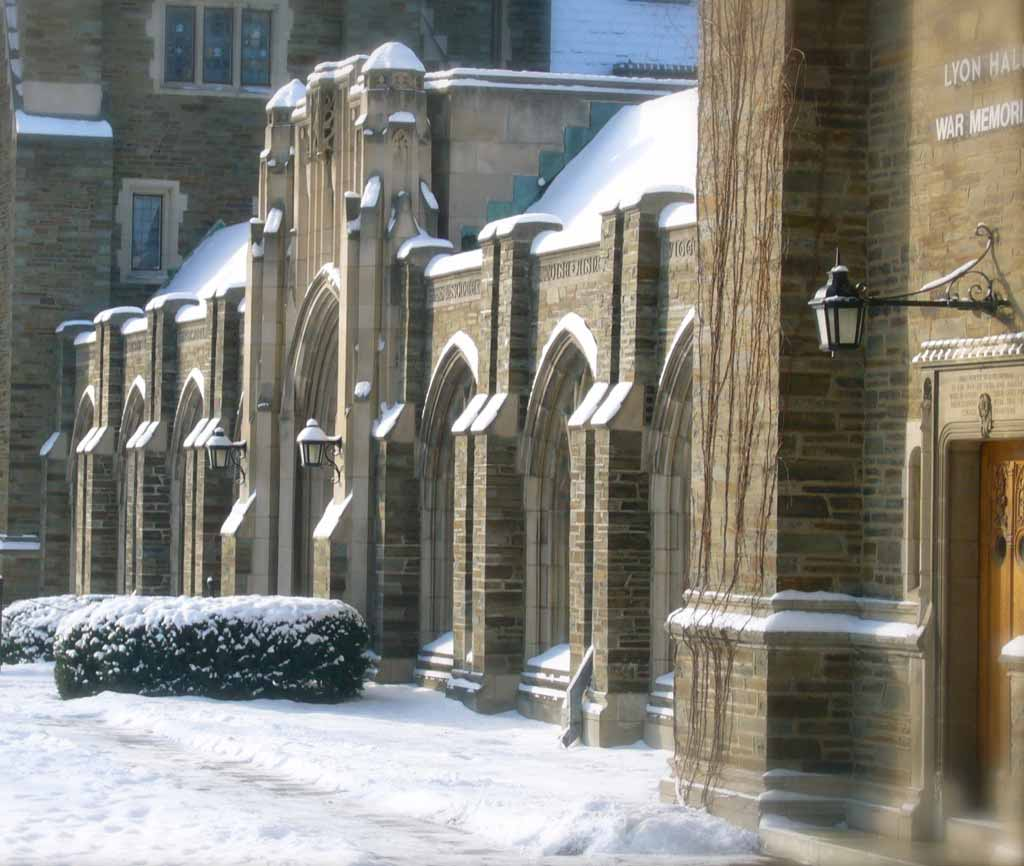
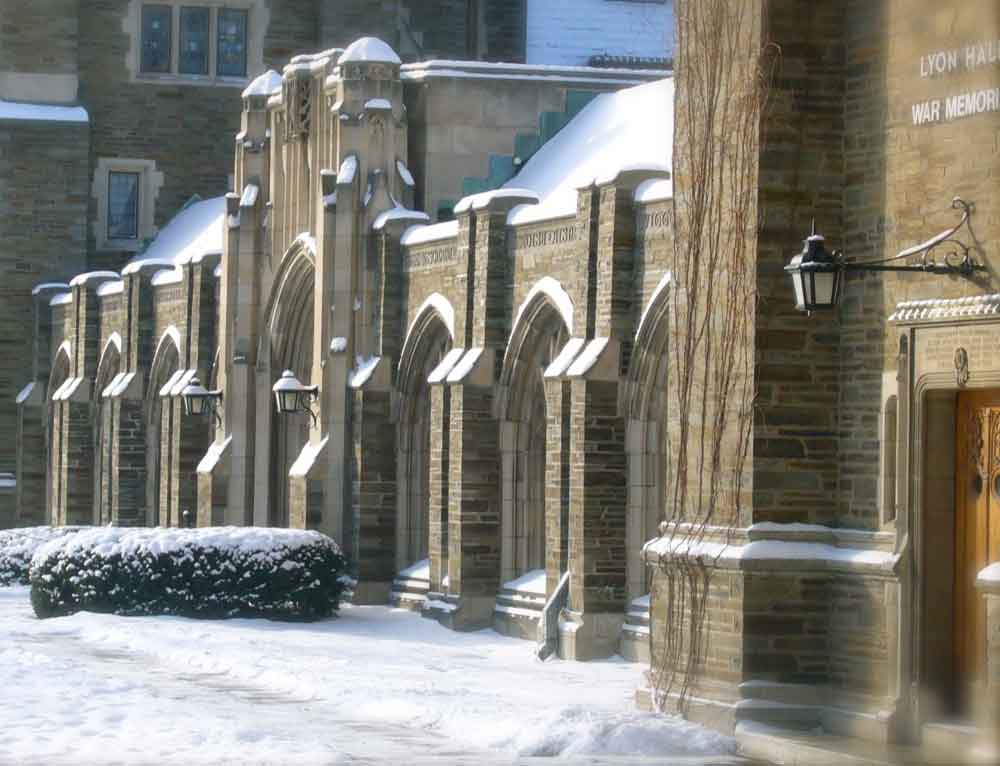
Style redesign

diff --git a/_layouts/default.html b/_layouts/default.html
@@ -3,29 +3,30 @@
  
 <html xmlns="http://www.w3.org/1999/xhtml" xml:lang="en" lang="en"> 
 <head> 
-	<meta http-equiv="content-type" content="text/html;charset=UTF-8" /> 
-	<title>Harrison Wong</title> 
-	<link type="text/css" href="css/dark-hive/jquery-ui-1.8.7.custom.css" rel="stylesheet" />
-	<link href="css/style.css" media="screen" rel="stylesheet" type="text/css" />
-	<script type="text/javascript" src="js/jquery-1.4.4.min.js"></script>
-	<script type="text/javascript" src="js/jquery-ui-1.8.7.custom.min.js"></script>
-	<script type="text/javascript" src="js/site.js"></script>
+  <meta http-equiv="content-type" content="text/html;charset=UTF-8" /> 
+  <title>Harrison Wong</title> 
+  <link type="text/css" href="css/dark-hive/jquery-ui-1.8.7.custom.css" rel="stylesheet" />
+  <link href="css/style.css" media="screen" rel="stylesheet" type="text/css" />
+  <script type="text/javascript" src="js/jquery-1.4.4.min.js"></script>
+  <script type="text/javascript" src="js/jquery-ui-1.8.7.custom.min.js"></script>
+  <script type="text/javascript" src="js/site.js"></script>
 </head> 
 <body>
 
 <div id="container">
-	<div id="header"><h1 class="ui-widget ui-corner-all"><div class="logo"></div>Harrison<i>Wong</i></h1></div>
-	<div id="menu">
-	<div class="ui-overlay"></div>
-		<div style="" class="ui-widget ui-widget-content ui-corner-all">
-			<ul>
-				<li><a href="index.html">Home</a></li>
-				<li><a href="about.html">About Me</a></li>
-				<li><a href="projects.html">Projects</a></li>
-			</ul>
-		</div>
-	</div>
-	<div id="content" class="ui-corner-all">
+  <div id="header"><img src="name.png" alt="name" /></div>
+  <div id="menu">
+  <div class="ui-overlay"></div>
+    <div style="" class="ui-widget ui-widget-content ui-corner-all">
+      <ul>
+        <li><a href="index.html">Home</a></li>
+        <li><a href="about.html">About Me</a></li>
+        <li><a href="test.html">Test</a></li>
+        <li><a href="projects.html">Projects</a></li>
+      </ul>
+    </div>
+  </div>
+  <div id="content">
 		{{ content }}
 	</div>
 	<div id="footer">{{ site.time | date: "%Y" }} | This was a triumph!</div>

diff --git a/css/style.css b/css/style.css
@@ -1,5 +1,5 @@
 body {
-	background-color: #000;
+	background-color: #444242;
 	padding: 0;
 	margin: 0;
 	font-size: 14px;
@@ -7,28 +7,26 @@ body {
 }
 #container {
 	width: 1000px;
-	background: #fff url('cornellsnow.jpg') no-repeat left top;
+	background: #fff url('cornellsnow.jpg') no-repeat left 100px;
 	margin: 0px auto;
 	height: 800px;
 	position: relative;
 }
 #header {
-	background-color: rgba(255,255,255,0.5);
+	background-color: rgba(166,95,0,1);
 	height: 100px;
+	width: 100%;
 }
 #header .logo {
   width:0;
   height:0;
   display: inline-block;
 }
-#header h1 {
-	float: right;
-	color: #003147;
-	background-color: #ccc;
+#header img {
 	/*background-color: #000;*/
-	margin: 0.5em;
-	padding: 10px;
-	font-size: 30px;
+	float: right;
+	height: 60px;
+	margin-top: 40px;
 }
 #menu {
 	font-size: 20px;
@@ -36,7 +34,7 @@ body {
 	color: #000;
 	width: 200px;
 	float: left;
-	margin-top: 10px;
+	margin-top: 30px;
 	margin-left: 10px
 }
 #menu ul {
@@ -63,13 +61,12 @@ body {
 }
 #content {
 	float: right;
-	background-color: rgba(0,0,0,0.75);
-	border-left: #FFC73D solid 5px;
-	border-bottom: #FFC73D solid 5px;
-	margin-right: 10px;
-	margin-top: 10px;
-	width: 735px;
-	padding: 15px;
+	background-color: rgba(37,86,123,0.75);
+	border-left: #FFC73D solid 10px;
+	margin-right: 80px;
+	margin-top: 30px;
+	width: 670px;
+	padding: 10px;
 	color: #fff;
 	min-height: 200px;
 }
@@ -112,4 +109,13 @@ body {
 }
 .projects h4 span {
 	float: left;
+}
+
+
+/* new stuff */
+h1, h2, h3, h4 {
+  font-family: Helvetica;
+}
+.ui-widget-content {
+  background-size: 100%;
 }

diff --git a/css/dark-hive/jquery-ui-1.8.7.custom.css b/css/dark-hive/jquery-ui-1.8.7.custom.css
@@ -280,6 +280,7 @@
 ----------------------------------*/
 
 /* Corner radius */
+/*
 .ui-corner-tl { -moz-border-radius-topleft: 6px; -webkit-border-top-left-radius: 6px; border-top-left-radius: 6px; }
 .ui-corner-tr { -moz-border-radius-topright: 6px; -webkit-border-top-right-radius: 6px; border-top-right-radius: 6px; }
 .ui-corner-bl { -moz-border-radius-bottomleft: 6px; -webkit-border-bottom-left-radius: 6px; border-bottom-left-radius: 6px; }
@@ -289,6 +290,7 @@
 .ui-corner-right {  -moz-border-radius-topright: 6px; -webkit-border-top-right-radius: 6px; border-top-right-radius: 6px; -moz-border-radius-bottomright: 6px; -webkit-border-bottom-right-radius: 6px; border-bottom-right-radius: 6px; }
 .ui-corner-left { -moz-border-radius-topleft: 6px; -webkit-border-top-left-radius: 6px; border-top-left-radius: 6px; -moz-border-radius-bottomleft: 6px; -webkit-border-bottom-left-radius: 6px; border-bottom-left-radius: 6px; }
 .ui-corner-all { -moz-border-radius: 6px; -webkit-border-radius: 6px; border-radius: 6px; }
+*/
 
 /* Overlays */
 .ui-widget-overlay { background: #5c5c5c url(images/ui-bg_flat_50_5c5c5c_40x100.png) 50% 50% repeat-x; opacity: .80;filter:Alpha(Opacity=80); }
